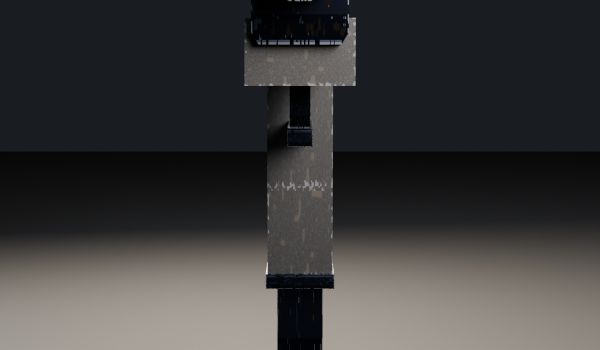
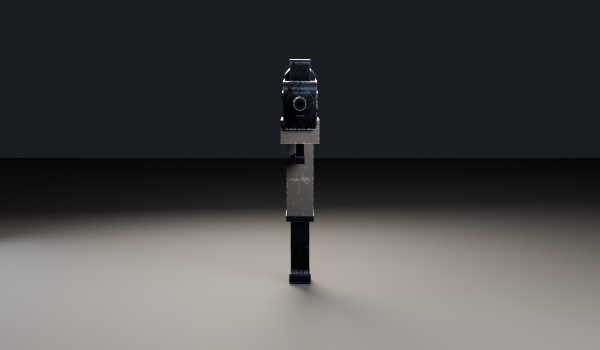
art: reframe smg_uzi_base previews so the full gun is in frame
The rifle-tuned camera distance cropped the top of the short, tall Uzi.
Preview cameras now fit the gun AABB with a 9% frame margin. Model unchanged.

diff --git a/assets/models/gun/gun_lowpoly_common.py b/assets/models/gun/gun_lowpoly_common.py
@@ -372,6 +372,47 @@ def save_blend(out_dir, name):
     print('saved', blend)
 
 
+
+def preview_fit_distance(look, loc_for_dir, corners, lens_mm, res_x, res_y,
+                         margin=0.09, sensor_width=36.0):
+    """Distance from `look` along (loc_for_dir - look) so Blender-space `corners`
+    fit in frame with `margin` of the frame clear on each side (0.09 = 9%).
+
+    View direction is preserved; only the camera distance changes. Assumes a
+    Blender camera with AUTO/horizontal sensor fit (default 36 mm width).
+    """
+    view_dir = (loc_for_dir - look).normalized()
+    rot_inv = (-view_dir).to_track_quat('-Z', 'Y').to_matrix().inverted()
+    half_w = (sensor_width * 0.5) / lens_mm
+    half_h = half_w * (res_y / float(res_x))
+    ndc_limit = 1.0 - 2.0 * margin
+    lim_x = half_w * ndc_limit
+    lim_y = half_h * ndc_limit
+    d_needed = 0.05
+    for P in corners:
+        rel = rot_inv @ (P - look)
+        d_needed = max(
+            d_needed,
+            rel.z + abs(rel.x) / max(lim_x, 1e-9),
+            rel.z + abs(rel.y) / max(lim_y, 1e-9),
+            rel.z + 0.05,
+        )
+    return d_needed, look + view_dir * d_needed
+
+
+def preview_ndc_extents(look, loc, corners, lens_mm, res_x, res_y, sensor_width=36.0):
+    rot_inv = (look - loc).to_track_quat('-Z', 'Y').to_matrix().inverted()
+    half_w = (sensor_width * 0.5) / lens_mm
+    half_h = half_w * (res_y / float(res_x))
+    xs, ys = [], []
+    for P in corners:
+        pc = rot_inv @ (P - loc)
+        depth = max(-pc.z, 1e-9)
+        xs.append((pc.x / depth) / half_w)
+        ys.append((pc.y / depth) / half_h)
+    return min(xs), max(xs), min(ys), max(ys)
+
+
 def render_glb(glb, render_dir, prefix, small_dir=None):
     M.reset_scene()
     bpy.ops.import_scene.gltf(filepath=os.path.abspath(glb))
@@ -404,16 +445,29 @@ def render_glb(glb, render_dir, prefix, small_dir=None):
     o.location = G(center.x, mx.y + 0.25 * k, center.z)
     look = G(center.x, center.y, center.z)
     dist = L * 1.75
-    views = {
-        'front': G(center.x, center.y + 0.03 * k, mn.z - dist * 0.55),
-        'side': G(mn.x - dist, center.y + 0.02 * k, center.z),
-        'three': G(mx.x + dist * 0.62, center.y + 0.35 * dist, center.z - dist * 0.62),
+    # Keep the original view directions; pull the camera back so the gun's
+    # full AABB fits with a 9% frame margin on each side. Short, tall guns
+    # (the Uzi) were cropped at the top by the rifle-tuned distance.
+    raw_views = {
+        'front': (G(center.x, center.y + 0.03 * k, mn.z - dist * 0.55), 75),
+        'side': (G(mn.x - dist, center.y + 0.02 * k, center.z), 60),
+        'three': (G(mx.x + dist * 0.62, center.y + 0.35 * dist, center.z - dist * 0.62), 60),
     }
+    corners = [G(Vector((x, y, z)))
+               for x in (mn.x, mx.x) for y in (mn.y, mx.y) for z in (mn.z, mx.z)]
     os.makedirs(render_dir, exist_ok=True)
     paths = []
-    for name, loc in views.items():
+    res_x, res_y = sc.render.resolution_x, sc.render.resolution_y
+    for name, (raw_loc, lens) in raw_views.items():
+        cam.data.lens = lens
+        d, loc = preview_fit_distance(look, raw_loc, corners, lens, res_x, res_y, margin=0.09)
+        nx0, nx1, ny0, ny1 = preview_ndc_extents(look, loc, corners, lens, res_x, res_y)
+        print(f'FRAME {name} lens={lens} dist={d:.4f} (raw {(raw_loc - look).length:.4f}) '
+              f'ndc_x[{nx0:+.3f},{nx1:+.3f}] ndc_y[{ny0:+.3f},{ny1:+.3f}]')
+        if max(abs(nx0), abs(nx1), abs(ny0), abs(ny1)) > 0.999:
+            raise RuntimeError(f'{name} still overflows the frame')
         M.aim_camera(cam, look, loc)
-        cam.data.lens = 60 if name != 'front' else 75
+        cam.data.clip_end = max(float(cam.data.clip_end), d * 5.0)
         p = os.path.join(render_dir, f'{prefix}_{name}.png')
         sc.render.filepath = p
         bpy.ops.render.render(write_still=True)
